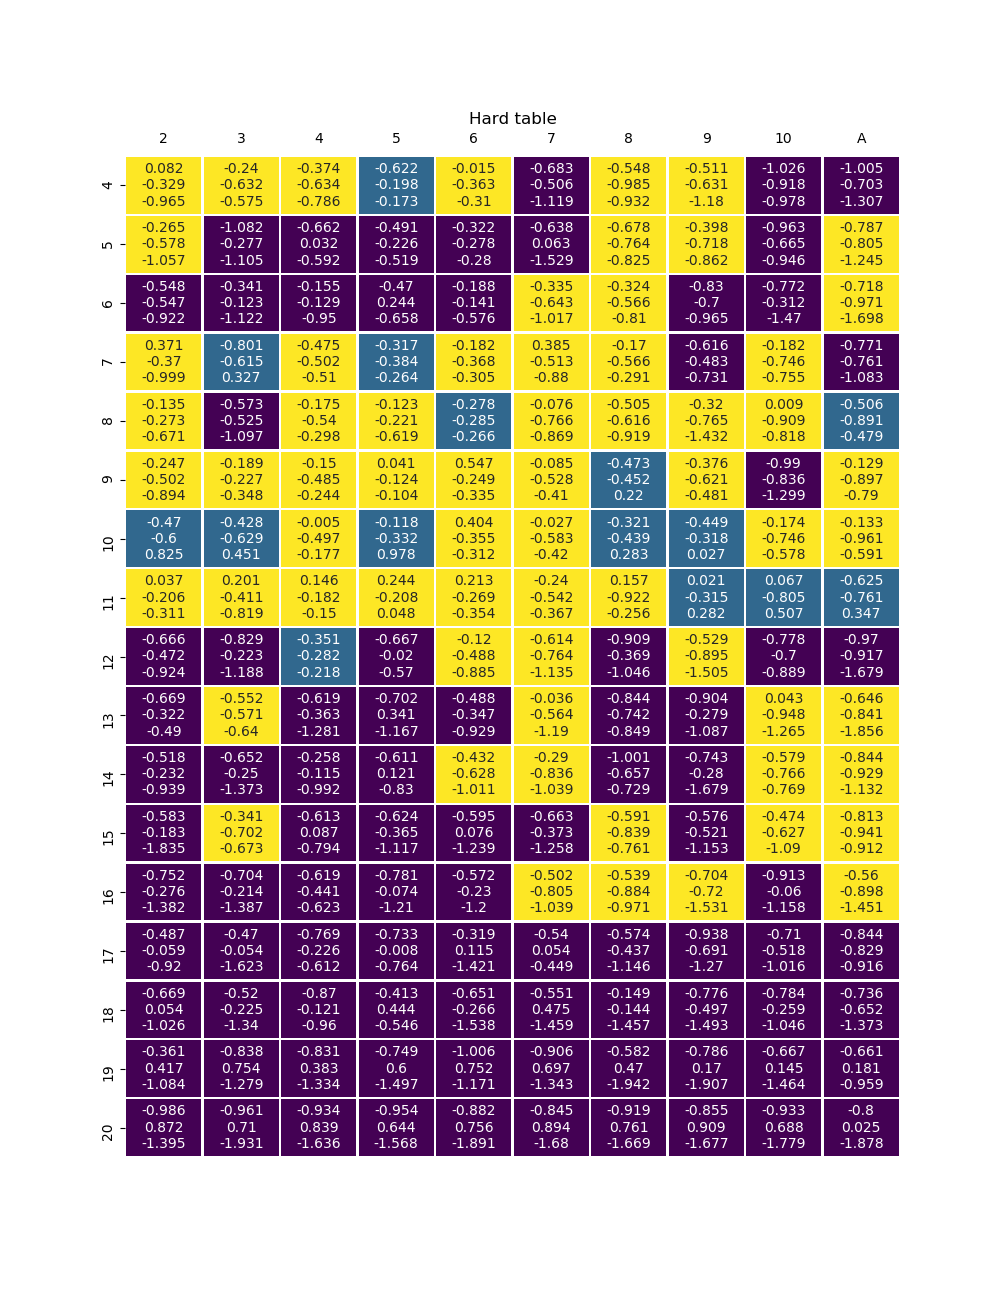
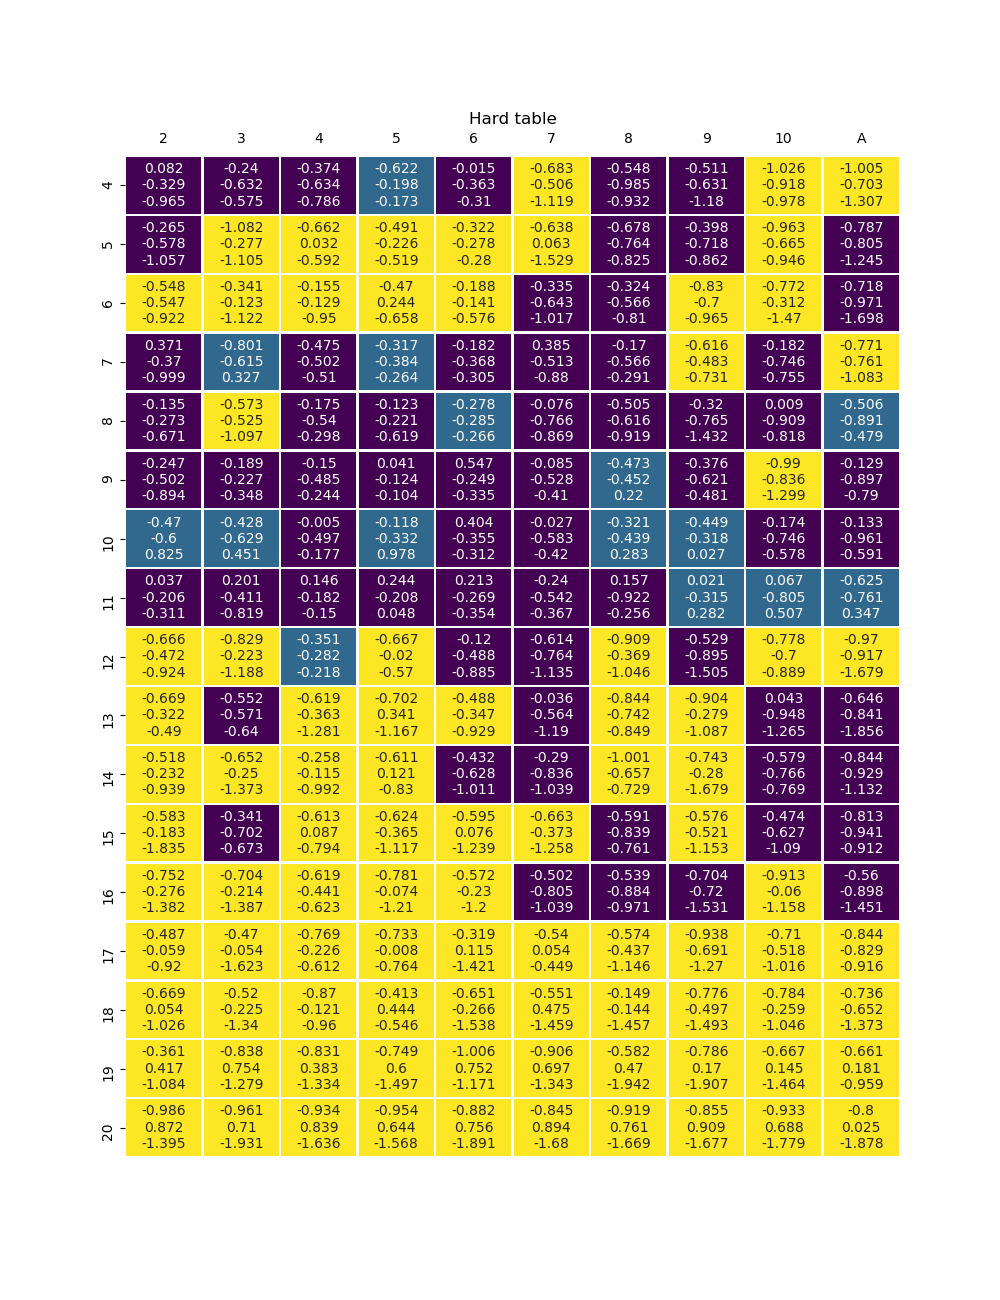
Plot updating - different coloring

diff --git a/Utility/Tables.py b/Utility/Tables.py
@@ -136,24 +136,21 @@ def dye(hard, soft, split):
                    '9': [],
                    '10': [],
                    'A': []}
-    dye_colors = [1, -2, -1, 0]
-    final_actions = ['S', 'H', 'D', 'P']
+    dye_colors = [-2, 1, -1, 0]
+    #  final_actions = ['H', 'S', 'D', 'P']
 
     for dealer_card in hard.keys():
         # Hard dying
         for cell in hard[dealer_card]:
             DYE_HARD[dealer_card].append(dye_colors[np.argmax(cell)])
-            FINAL_HARD[dealer_card].append(final_actions[np.argmax(cell)])
         # Soft dying
         for cell in soft[dealer_card]:
             DYE_SOFT[dealer_card].append(dye_colors[np.argmax(cell)])
-            FINAL_SOFT[dealer_card].append(final_actions[np.argmax(cell)])
         # Split dying
         for cell in split[dealer_card]:
             DYE_SPLIT[dealer_card].append(dye_colors[np.argmax(cell)])
-            FINAL_SPLIT[dealer_card].append(final_actions[np.argmax(cell)])
 
-    return DYE_HARD, DYE_SOFT, DYE_SPLIT, FINAL_HARD, FINAL_SOFT, FINAL_SPLIT
+    return DYE_HARD, DYE_SOFT, DYE_SPLIT
 
 
 def plot_heatmap_based_on_values(player_name, hard_table, soft_table, split_table, rl=False):
@@ -174,9 +171,9 @@ def plot_heatmap_based_on_values(player_name, hard_table, soft_table, split_tabl
     else:
         HARD_INDEX = list(range(4, 22))
         SOFT_INDEX = list(range(12, 22))
-    DYE_HARD, DYE_SOFT, DYE_SPLIT, FINAL_HARD, FINAL_SOFT, FINAL_SPLIT = dye(hard_table,
-                                                                             soft_table,
-                                                                             split_table)
+    DYE_HARD, DYE_SOFT, DYE_SPLIT = dye(hard_table,
+                                        soft_table,
+                                        split_table)
     # change the values to a line separate string instead of a tuple
     for table in hard_table, soft_table:
         for key in table.keys():

diff --git a/Game/Game.py b/Game/Game.py
@@ -1,6 +1,6 @@
 import random
 
-from Player import Player
+from Game.Player import Player
 
 num_of_deck = 6
 card_of_each = ['A', '2', '3', '4', '5', '6', '7', '8', '9', '10', 'J', 'Q', 'K']
